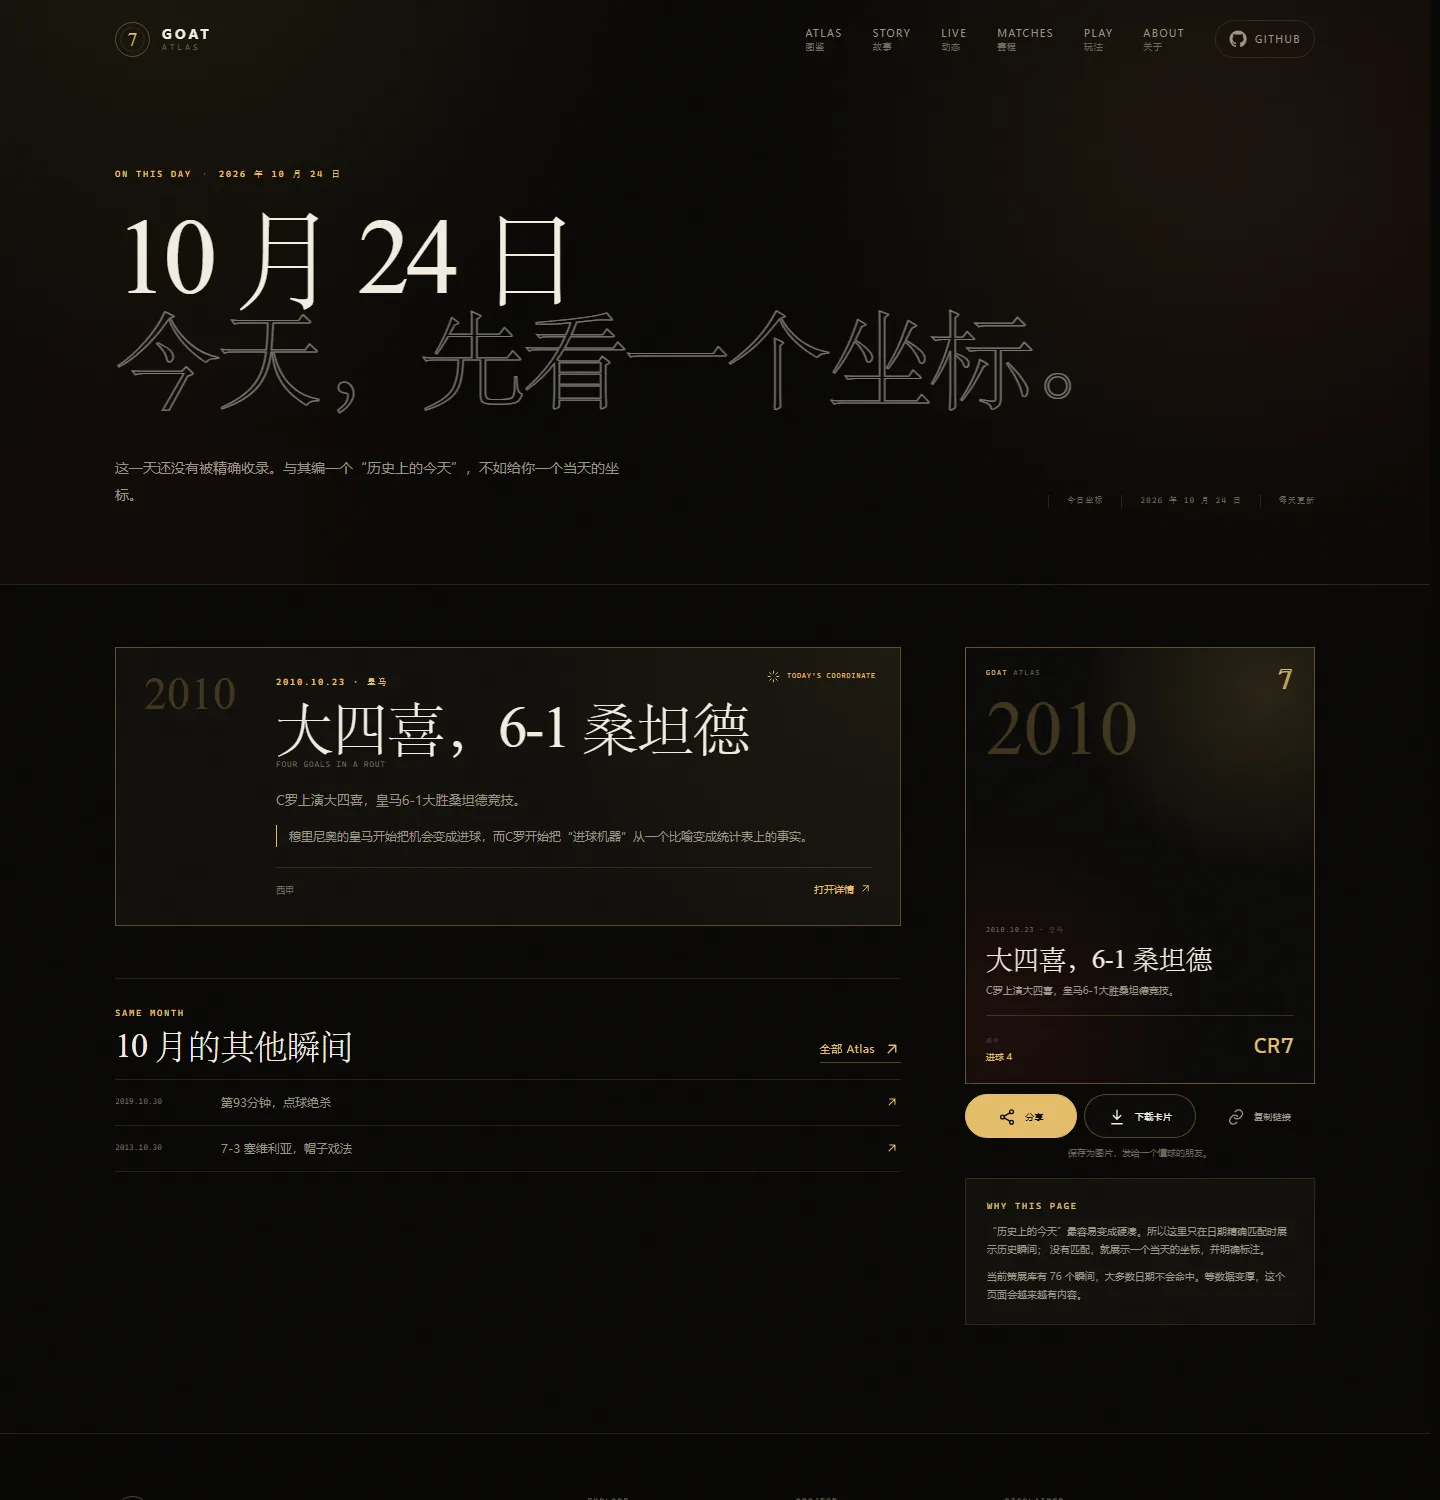
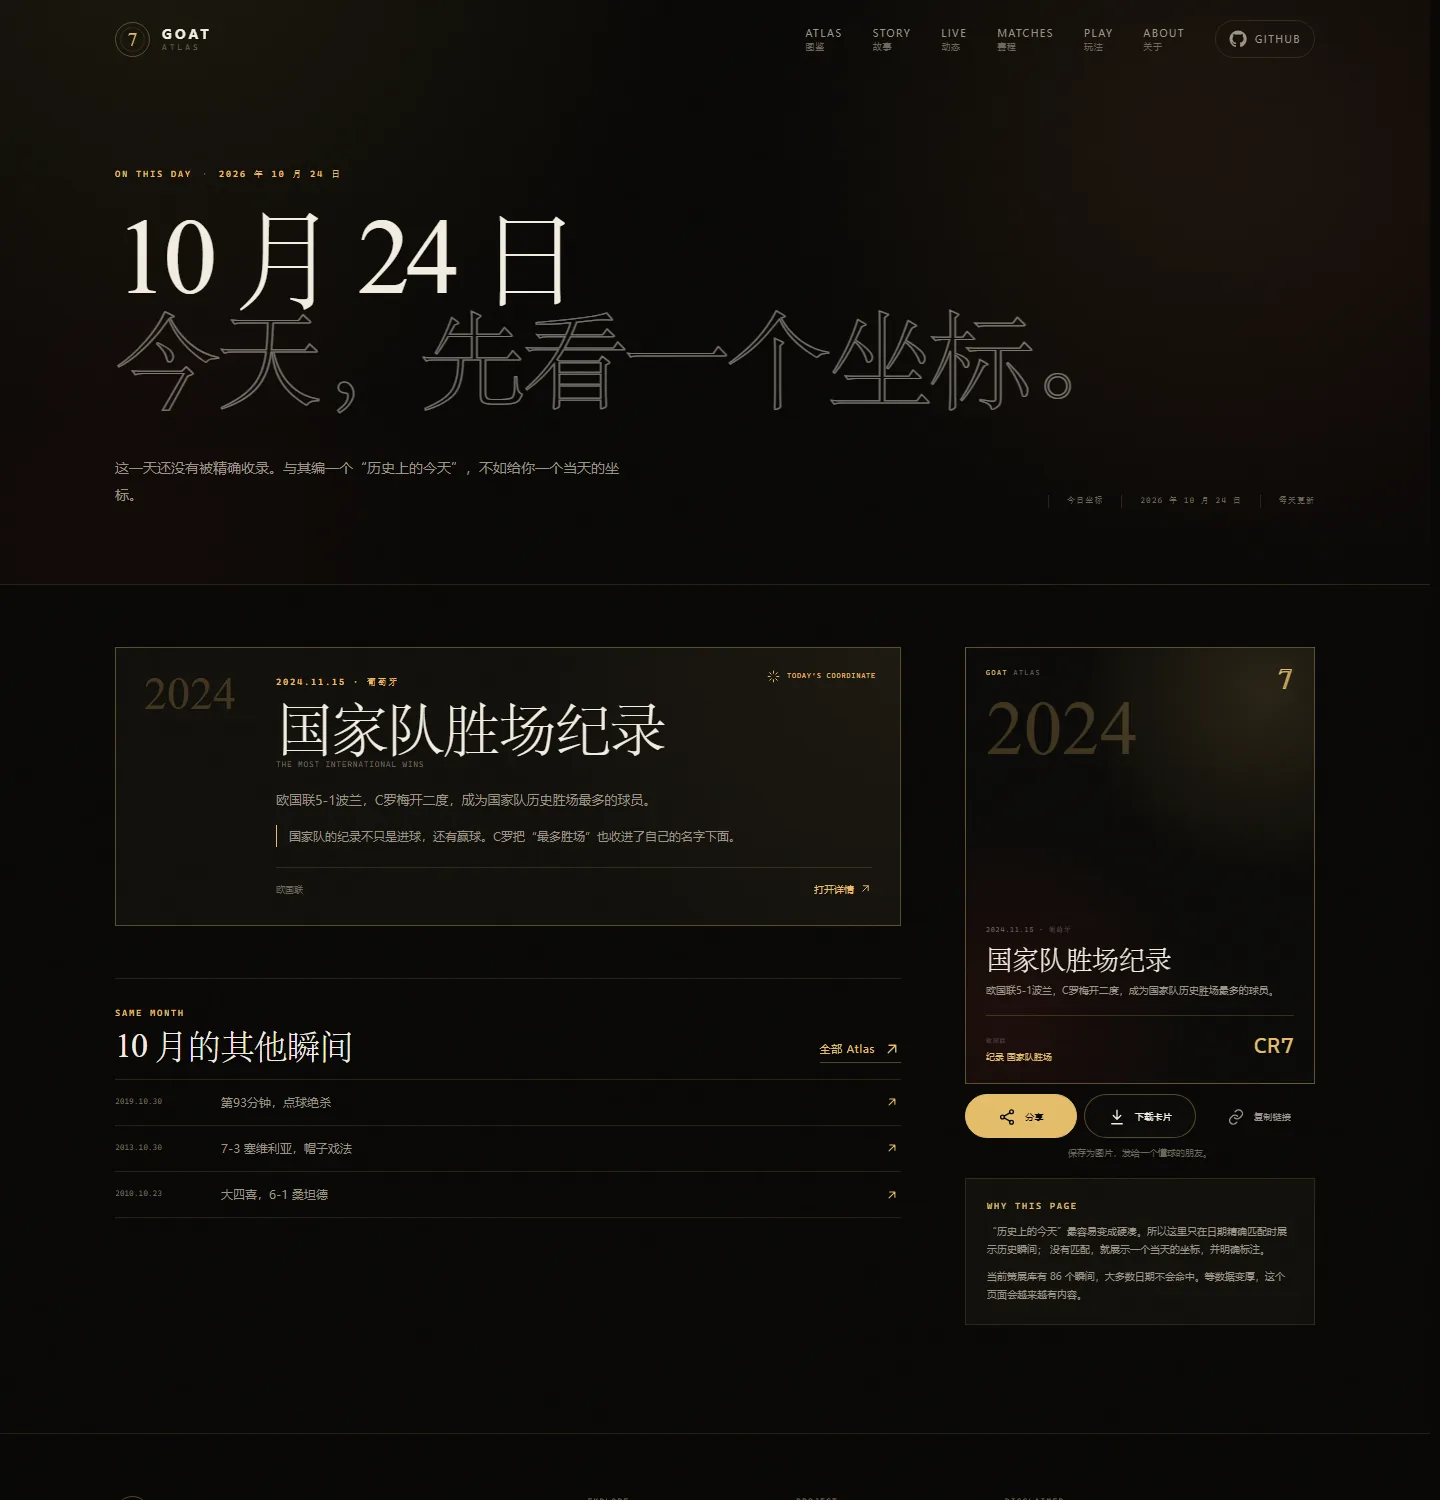
content: add the Al Nassr and 2026 era

Changed region(s): [[0.1875, 0.46, 0.5625, 0.5827], [0.6875, 0.6133, 0.875, 0.6747], [0.75, 0.46, 0.8125, 0.5213]]

diff --git a/app/about/page.tsx b/app/about/page.tsx
@@ -46,7 +46,7 @@ const ROADMAP = [
     phase: "Phase 1",
     title: "内容底座",
     status: "已完成",
-    body: "76 个名场面、6 个章节、时间线、检索、详情页、分享卡、PWA manifest、Live 数据页，以及带日历订阅的 Match Center。目标：让一个球迷在 30 秒内找到他想看的瞬间，并且不错过下一场。",
+    body: "86 个名场面、6 个章节、时间线、检索、详情页、分享卡、PWA manifest、Live 数据页，以及带日历订阅的 Match Center。目标：让一个球迷在 30 秒内找到他想看的瞬间，并且不错过下一场。",
   },
   {
     phase: "Phase 2",
@@ -193,7 +193,7 @@ export default function AboutPage() {
           <div className="data-note">
             <h3>当前数据的边界</h3>
             <p>
-              这是一份策展式样本，不是完整数据库。76 条记录覆盖了职业生涯的关键坐标，
+              这是一份策展式样本，不是完整数据库。86 条记录覆盖了职业生涯的关键坐标，
               但远未穷尽所有比赛和进球。收录标准偏向“有叙事价值、可被验证、能代表一个阶段”。
               当前策展数据截至 2025 年 6 月。最新赛季、最近比赛、C 罗进球分钟
               和里程碑由 Live 数据层承载：GitHub Actions 每 6 小时自动同步；

diff --git a/app/pt/page.tsx b/app/pt/page.tsx
@@ -7,7 +7,7 @@ export const metadata: Metadata = {
     absolute: "GOAT Atlas | Atlas da carreira de Cristiano Ronaldo",
   },
   description:
-    "Um atlas aberto e com fontes sobre a carreira de Cristiano Ronaldo: 76 momentos, seis capítulos, dados ao vivo e lembretes de jogos.",
+    "Um atlas aberto e com fontes sobre a carreira de Cristiano Ronaldo: 86 momentos, seis capítulos, dados ao vivo e lembretes de jogos.",
   alternates: {
     canonical: absoluteUrl("/pt/"),
     languages: {
@@ -23,7 +23,7 @@ export const metadata: Metadata = {
     siteName: "GOAT Atlas",
     title: "GOAT Atlas | Atlas da carreira de Cristiano Ronaldo",
     description:
-      "Um atlas aberto e com fontes sobre a carreira de Cristiano Ronaldo: 76 momentos, seis capítulos, dados ao vivo e lembretes de jogos.",
+      "Um atlas aberto e com fontes sobre a carreira de Cristiano Ronaldo: 86 momentos, seis capítulos, dados ao vivo e lembretes de jogos.",
     images: [{ url: absoluteUrl("/og.png"), width: 1200, height: 630 }],
   },
   twitter: {

diff --git a/app/en/page.tsx b/app/en/page.tsx
@@ -5,7 +5,7 @@ import { absoluteUrl } from "@/lib/site";
 export const metadata: Metadata = {
   title: { absolute: "GOAT Atlas | Cristiano Ronaldo career atlas" },
   description:
-    "An open, source-backed career atlas for Cristiano Ronaldo: 76 defining moments, six chapters, live data and match reminders.",
+    "An open, source-backed career atlas for Cristiano Ronaldo: 86 defining moments, six chapters, live data and match reminders.",
   alternates: {
     canonical: absoluteUrl("/en/"),
     languages: {
@@ -21,7 +21,7 @@ export const metadata: Metadata = {
     siteName: "GOAT Atlas",
     title: "GOAT Atlas | Cristiano Ronaldo career atlas",
     description:
-      "An open, source-backed career atlas for Cristiano Ronaldo: 76 defining moments, six chapters, live data and match reminders.",
+      "An open, source-backed career atlas for Cristiano Ronaldo: 86 defining moments, six chapters, live data and match reminders.",
     images: [{ url: absoluteUrl("/og.png"), width: 1200, height: 630 }],
   },
   twitter: {

diff --git a/app/today/page.tsx b/app/today/page.tsx
@@ -159,7 +159,7 @@ export default function TodayPage() {
                 没有匹配，就展示一个当天的坐标，并明确标注。
               </p>
               <p>
-                当前策展库有 76 个瞬间，大多数日期不会命中。等数据变厚，这个页面会越来越有内容。
+                当前策展库有 86 个瞬间，大多数日期不会命中。等数据变厚，这个页面会越来越有内容。
               </p>
             </div>
           </aside>

diff --git a/app/atlas/page.tsx b/app/atlas/page.tsx
@@ -6,7 +6,7 @@ import { siteConfig } from "@/lib/site";
 export const metadata: Metadata = {
   title: "Atlas · 名场面检索",
   description:
-    "按年份、章节、类型、对手和关键词检索 C 罗职业生涯的 76 个名场面。每一条记录都附有来源。",
+    "按年份、章节、类型、对手和关键词检索 C 罗职业生涯的 86 个名场面。每一条记录都附有来源。",
   alternates: { canonical: `${siteConfig.url}/atlas/` },
 };
 

diff --git a/app/live/page.tsx b/app/live/page.tsx
@@ -174,7 +174,7 @@ export default function LivePage() {
                     <h3>等待下一场比赛</h3>
                     <p>
                       同步任务还没有接入实时比赛数据。你仍然可以在 Atlas
-                      里查看已经整理好的 76 个名场面。
+                      里查看已经整理好的 86 个名场面。
                     </p>
                   </div>
                 </div>

diff --git a/README.md b/README.md
@@ -8,7 +8,7 @@
 🌐 **English:** <https://haohaohao-cell.github.io/goat-atlas/en/> · **Português:** <https://haohaohao-cell.github.io/goat-atlas/pt/>  
 💻 **Repository:** <https://github.com/haohaohao-cell/goat-atlas>
 
-`Next.js 16` · `TypeScript` · `76 moments` · `6 chapters` · `68 sources` · `MIT + CC BY-SA 4.0`
+`Next.js 16` · `TypeScript` · `86 moments` · `6 chapters` · `78 sources` · `MIT + CC BY-SA 4.0`
 
 ![GOAT Atlas preview](docs/preview.webp)
 
@@ -50,7 +50,7 @@ C 罗是第一号展馆；数据结构从第一天起就是多球员设计。
 
 ## 现在有什么
 
-- **Atlas 检索**：按章节、类型、对手、关键词筛选 76 个名场面
+- **Atlas 检索**：按章节、类型、对手、关键词筛选 86 个名场面
 - **Story 故事模式**：六个章节，从里斯本到利雅得
 - **详情页**：比分、时间、球场、背景故事、为什么重要、来源链接
 - **分享卡**：一键生成 4:5 图片，支持 Web Share / 下载 / 复制链接
@@ -143,7 +143,7 @@ components/
 components/Icons.tsx
 data/
   player.json              # 球员、俱乐部、章节
-  moments.json             # 76 条名场面记录
+  moments.json             # 86 条名场面记录
   live.json                # 最新赛季 / 比赛 / 同步状态
   quiz.json                # 每日问答题库
   compare.json             # GOAT 对比指标
@@ -172,7 +172,7 @@ scripts/
 
 1. **纠错**：日期、比分、对手、球场、来源有误。
 2. **补充来源**：给已有记录加更权威的链接。
-3. **新增名场面**：尤其是被现有 76 条忽略的节点。
+3. **新增名场面**：尤其是被现有 86 条忽略的节点。
 
 流程：
 
@@ -269,14 +269,14 @@ gh secret set API_FOOTBALL_KEY --repo haohaohao-cell/goat-atlas
 
 - 只有 `data/moments.json` 里存在同月同日记录时，才显示“历史上的今天”。
 - 没有精确匹配时，页面会明确写“今天没有收录”，然后展示一个按日期确定的“今日坐标”。
-- 当前 76 条数据决定命中率不会高；随着 Atlas 变厚，这个页面会越来越有内容。
+- 当前 86 条数据决定命中率不会高；随着 Atlas 变厚，这个页面会越来越有内容。
 - 分享卡、详情页和来源链接都复用同一套数据，不另写一份。
 
 ## 多语言现在到哪一步
 
 - **入口页 only**：英文 `/en/`、葡语 `/pt/` overview，页脚有轻量入口；Header 语言切换已撤掉。
 - **hreflang only on entry pages**：只有 `/en/`、`/pt/` 输出多语言 alternate，中文深页不再声明英文版。
-- **仍以中文为主**：76 条名场面的长文、问答题库、故事叙述目前是中文。
+- **仍以中文为主**：86 条名场面的长文、问答题库、故事叙述目前是中文。
 - **不直接机翻上线**：深度内容需要逐条校对，避免把错误翻译写进“有出处”的 Atlas。
 - 目前冻结翻译，优先扩充 Atlas 数据，而不是堆更多空页面。
 
@@ -286,7 +286,7 @@ gh secret set API_FOOTBALL_KEY --repo haohaohao-cell/goat-atlas
 - **策展数据**：[CC BY-SA 4.0](DATA-LICENSE.md)
 - **第三方内容**：来源链接指向的页面、商标、比赛画面归各自权利人所有
 
-数据不是完整数据库，而是一份策展式样本：76 条记录覆盖职业生涯关键坐标，远未穷尽所有比赛和进球。每条记录尽量保留可核验来源，欢迎纠错。
+数据不是完整数据库，而是一份策展式样本：86 条记录覆盖职业生涯关键坐标，远未穷尽所有比赛和进球。每条记录尽量保留可核验来源，欢迎纠错。
 
 ## Roadmap
 
